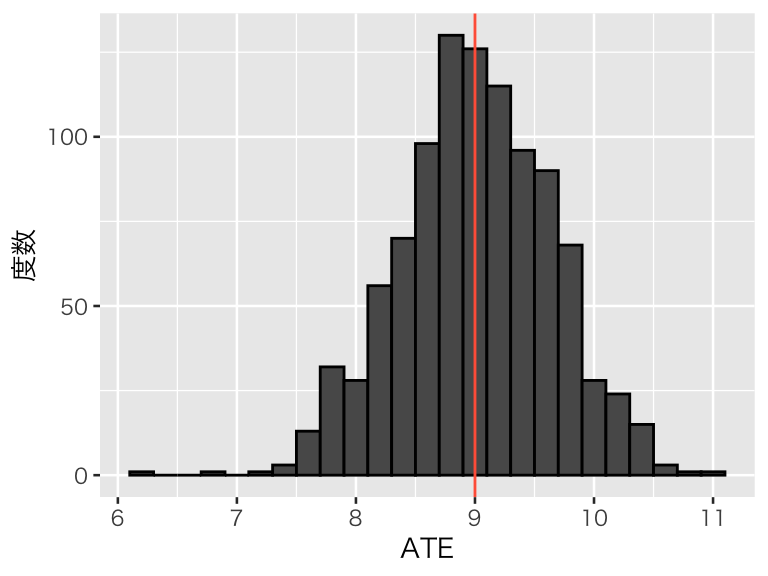
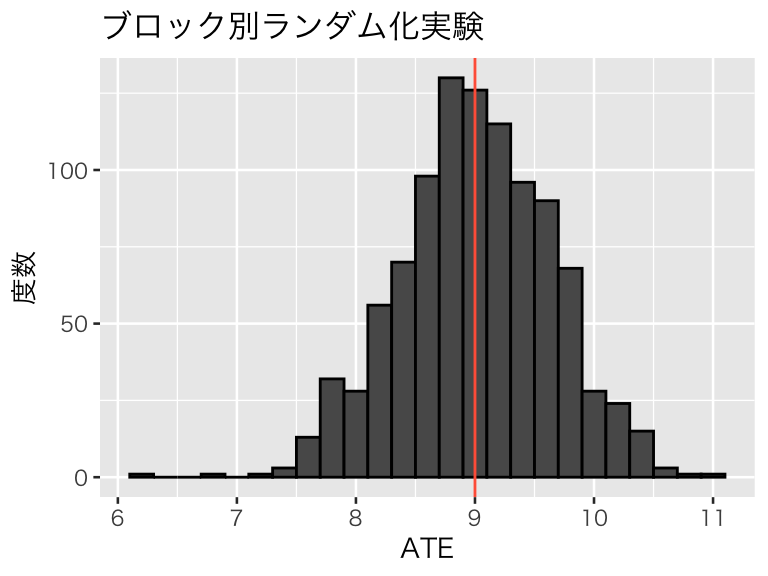
typo

diff --git a/docs/index.html b/docs/index.html
@@ -24,7 +24,7 @@
 <meta name="author" content="矢内 勇生" />
 
 
-<meta name="date" content="2020-06-11" />
+<meta name="date" content="2020-06-12" />
 
   <meta name="viewport" content="width=device-width, initial-scale=1" />
   <meta name="apple-mobile-web-app-capable" content="yes" />
@@ -241,14 +241,14 @@ code span.wa { color: #8f5902; font-weight: bold; font-style: italic; } /* Warni
 <h1 class="title">KUT 計量経済学応用</h1>
 <h2 class="subtitle"><em>統計的因果推論入門</em></h2>
 <p class="author"><em>矢内 勇生</em></p>
-<p class="date"><em>2020-06-11</em></p>
+<p class="date"><em>2020-06-12</em></p>
 </div>
 <div id="はじめに" class="section level1 unnumbered" number="">
 <h1>はじめに</h1>
 <div id="この資料について" class="section level2" number="0.1">
 <h2><span class="header-section-number">0.1</span> この資料について</h2>
-<p>この資料は、高知工科大学経済・マネジメント学群で2020年度に開講する「計量経済学応用」の補助教材である。</p>
-<p>受講生は、以下の点に注意されたい。</p>
+<p>この資料は、高知工科大学 (KUT) 経済・マネジメント学群で2020年度に開講する「計量経済学応用」の補助教材である。</p>
+<p>受講生は、以下の3点に注意されたい。</p>
 <ol style="list-style-type: decimal">
 <li>この資料は、授業の進捗にあわせてアップデートされる。</li>
 </ol>
@@ -309,8 +309,8 @@ code span.wa { color: #8f5902; font-weight: bold; font-style: italic; } /* Warni
 </ol>
 <p>各トピックの参考文献や予習課題については、<a href="http://yukiyanai.github.io/jp/classes/econometrics2/docs/syllabus-applied-econometrics_2020-2Q.pdf">シラバス（PDFファイル）</a> を参照されたい。</p>
 <p>この資料は上に挙げたトピック単位で作成している。各トピックに例として書かれたRコードは、トピックを途中から実行することを想定していない。たとえば、1.3.6節に書いてあるコードを実行するためには、トピック1の冒頭から 順番にRコードを実行する必要がある。途中のコードだけ実行しても動かない可能性が高い。</p>
-<p>他方、各トピックは独立に実行できる。例えば、トピック3に書かれているコードを実行するために、トピック1や2に書かれたRコードを実行する必要はない。トピック3の冒頭から実行すれば十分である。
-ただし、トピック1の内容は全員1度は実行済みであると仮定する。1度実行すれば、Rをインストールし直すか、バージョンアップするまでは再度実行する必要はない。</p>
+<p>他方、各トピックは独立に実行できる。例えば、トピック3に書かれているコードを実行するために、トピック2に書かれたRコードを実行する必要はない。トピック3の冒頭から実行すれば十分である。
+ただし、トピック1の内容は全員1度は実行済みであると仮定する。1度実行すれば、Rをインストールし直すか、バージョンアップするまで再度実行する必要はない。</p>
 
 </div>
 </div>

diff --git a/docs/RCT.html b/docs/RCT.html
@@ -24,7 +24,7 @@
 <meta name="author" content="矢内 勇生" />
 
 
-<meta name="date" content="2020-06-11" />
+<meta name="date" content="2020-06-12" />
 
   <meta name="viewport" content="width=device-width, initial-scale=1" />
   <meta name="apple-mobile-web-app-capable" content="yes" />
@@ -521,7 +521,7 @@ code span.wa { color: #8f5902; font-weight: bold; font-style: italic; } /* Warni
 <span id="cb139-3"><a href="RCT.html#cb139-3"></a><span class="st">  </span><span class="kw">ggplot</span>(<span class="kw">aes</span>(<span class="dt">x =</span> ATE)) <span class="op">+</span></span>
 <span id="cb139-4"><a href="RCT.html#cb139-4"></a><span class="st">  </span><span class="kw">geom_histogram</span>(<span class="dt">binwidth =</span> <span class="fl">0.2</span>, <span class="dt">color =</span> <span class="st">&quot;black&quot;</span>) <span class="op">+</span></span>
 <span id="cb139-5"><a href="RCT.html#cb139-5"></a><span class="st">  </span><span class="kw">geom_vline</span>(<span class="dt">xintercept =</span> pop_ATE, <span class="dt">color =</span> <span class="st">&quot;tomato&quot;</span>) <span class="op">+</span></span>
-<span id="cb139-6"><a href="RCT.html#cb139-6"></a><span class="st">  </span><span class="kw">labs</span>(<span class="dt">y =</span> <span class="st">&quot;度数&quot;</span>, <span class="st">&quot;ブロック別ランダム化実験&quot;</span>)</span>
+<span id="cb139-6"><a href="RCT.html#cb139-6"></a><span class="st">  </span><span class="kw">labs</span>(<span class="dt">y =</span> <span class="st">&quot;度数&quot;</span>, <span class="dt">title =</span> <span class="st">&quot;ブロック別ランダム化実験&quot;</span>)</span>
 <span id="cb139-7"><a href="RCT.html#cb139-7"></a><span class="kw">plot</span>(hist_strat_<span class="dv">100</span>)</span></code></pre></div>
 <p><img src="kut-metrics2_files/figure-html/unnamed-chunk-83-1.png" width="384" /></p>
 <p>やはり、平均的にはうまく推定できているようだ。ATEの推定値の平均値は、9.01 である。</p>

diff --git a/docs/final-presentation.html b/docs/final-presentation.html
@@ -24,7 +24,7 @@
 <meta name="author" content="矢内 勇生" />
 
 
-<meta name="date" content="2020-06-11" />
+<meta name="date" content="2020-06-12" />
 
   <meta name="viewport" content="width=device-width, initial-scale=1" />
   <meta name="apple-mobile-web-app-capable" content="yes" />

diff --git a/docs/instrumental-variable.html b/docs/instrumental-variable.html
@@ -24,7 +24,7 @@
 <meta name="author" content="矢内 勇生" />
 
 
-<meta name="date" content="2020-06-11" />
+<meta name="date" content="2020-06-12" />
 
   <meta name="viewport" content="width=device-width, initial-scale=1" />
   <meta name="apple-mobile-web-app-capable" content="yes" />

diff --git a/docs/midterm-presentation.html b/docs/midterm-presentation.html
@@ -24,7 +24,7 @@
 <meta name="author" content="矢内 勇生" />
 
 
-<meta name="date" content="2020-06-11" />
+<meta name="date" content="2020-06-12" />
 
   <meta name="viewport" content="width=device-width, initial-scale=1" />
   <meta name="apple-mobile-web-app-capable" content="yes" />

diff --git a/docs/panel-data.html b/docs/panel-data.html
@@ -24,7 +24,7 @@
 <meta name="author" content="矢内 勇生" />
 
 
-<meta name="date" content="2020-06-11" />
+<meta name="date" content="2020-06-12" />
 
   <meta name="viewport" content="width=device-width, initial-scale=1" />
   <meta name="apple-mobile-web-app-capable" content="yes" />

diff --git a/docs/propensity-score.html b/docs/propensity-score.html
@@ -24,7 +24,7 @@
 <meta name="author" content="矢内 勇生" />
 
 
-<meta name="date" content="2020-06-11" />
+<meta name="date" content="2020-06-12" />
 
   <meta name="viewport" content="width=device-width, initial-scale=1" />
   <meta name="apple-mobile-web-app-capable" content="yes" />

diff --git a/docs/references.html b/docs/references.html
@@ -24,7 +24,7 @@
 <meta name="author" content="矢内 勇生" />
 
 
-<meta name="date" content="2020-06-11" />
+<meta name="date" content="2020-06-12" />
 
   <meta name="viewport" content="width=device-width, initial-scale=1" />
   <meta name="apple-mobile-web-app-capable" content="yes" />

diff --git a/docs/regression-discontinuity.html b/docs/regression-discontinuity.html
@@ -24,7 +24,7 @@
 <meta name="author" content="矢内 勇生" />
 
 
-<meta name="date" content="2020-06-11" />
+<meta name="date" content="2020-06-12" />
 
   <meta name="viewport" content="width=device-width, initial-scale=1" />
   <meta name="apple-mobile-web-app-capable" content="yes" />

diff --git a/docs/regression.html b/docs/regression.html
@@ -24,7 +24,7 @@
 <meta name="author" content="矢内 勇生" />
 
 
-<meta name="date" content="2020-06-11" />
+<meta name="date" content="2020-06-12" />
 
   <meta name="viewport" content="width=device-width, initial-scale=1" />
   <meta name="apple-mobile-web-app-capable" content="yes" />

diff --git a/docs/selection-bias.html b/docs/selection-bias.html
@@ -24,7 +24,7 @@
 <meta name="author" content="矢内 勇生" />
 
 
-<meta name="date" content="2020-06-11" />
+<meta name="date" content="2020-06-12" />
 
   <meta name="viewport" content="width=device-width, initial-scale=1" />
   <meta name="apple-mobile-web-app-capable" content="yes" />
